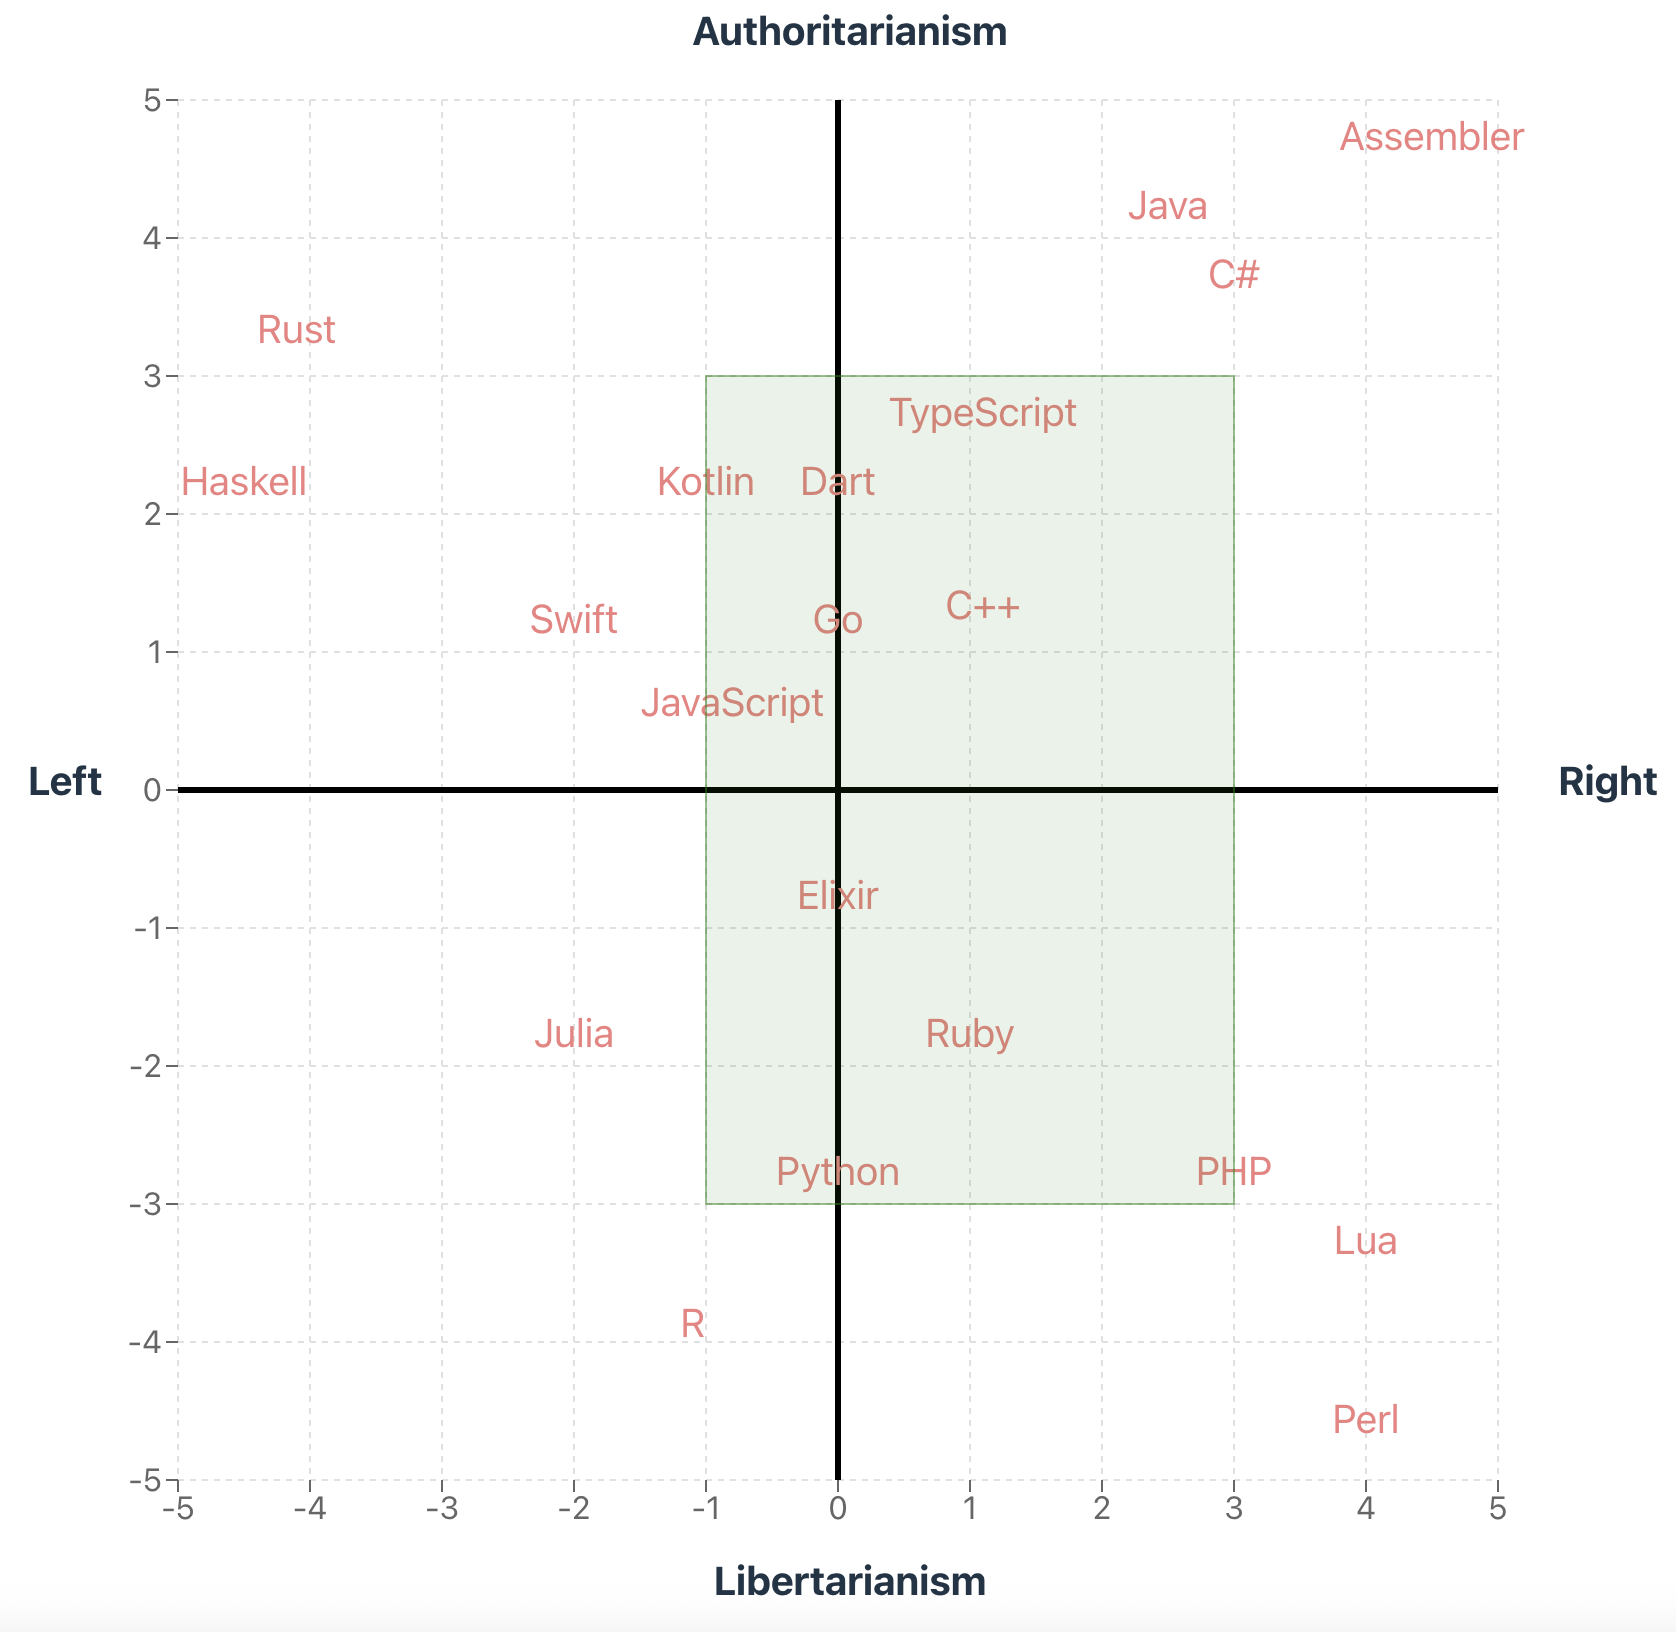
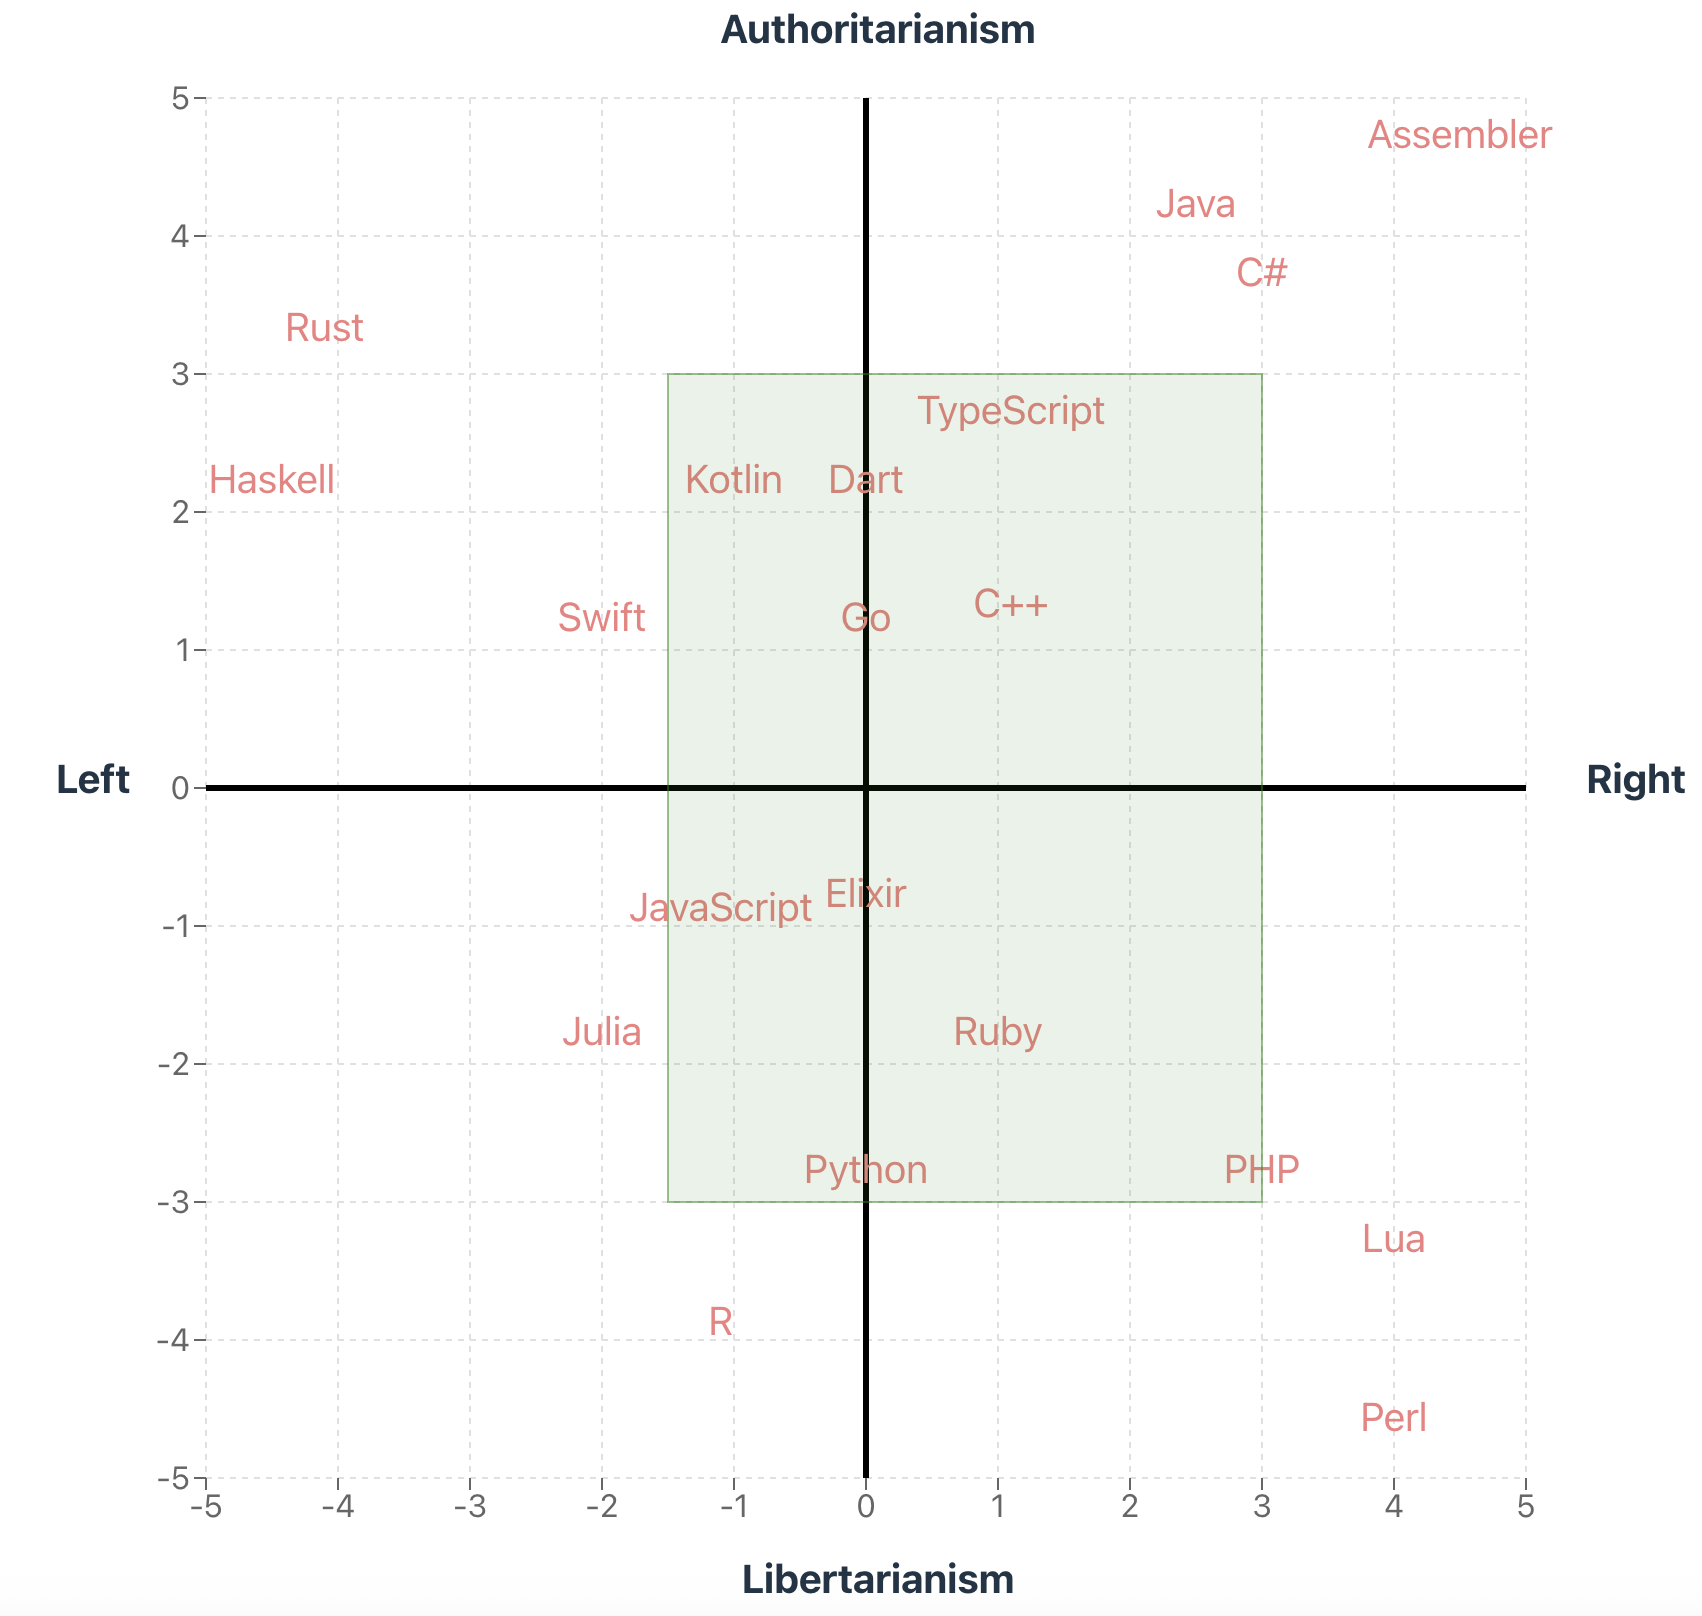
Small data changes

diff --git a/src/common/helpers.ts b/src/common/helpers.ts
@@ -188,7 +188,7 @@ export const myPoliticalEdges = {
 
 // Programming Languages
 export const myProgrammingEdges = {
-  x1: -1,
+  x1: -1.5,
   y1: 3,
   x2: 3,
   y2: -3,
